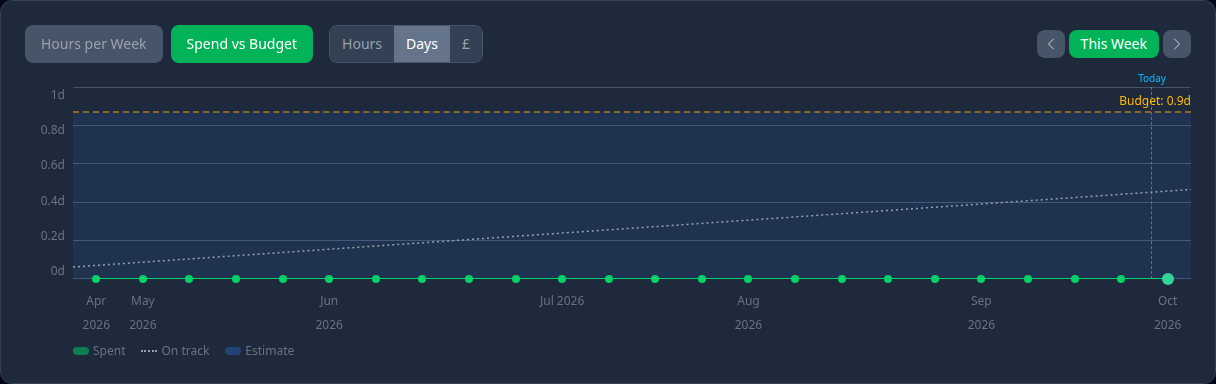
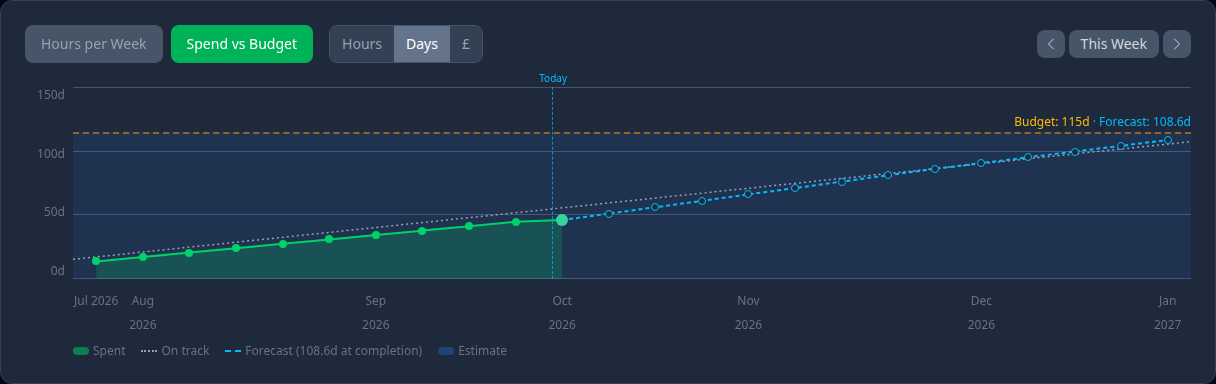
feat: split Unsubmitted out of the weekly bars, keep forecast and budget labels apart, and refresh PR screenshots

diff --git a/src/components/projects/ProjectCharts.tsx b/src/components/projects/ProjectCharts.tsx
@@ -331,6 +331,7 @@ interface WeeklyDataPoint {
   hours: number;
   approvedHours: number;
   pendingHours: number;
+  unsubmittedHours?: number; // The Open (not yet submitted) part of pendingHours
   plannedHours: number; // Budgeted hours from Job Planning Lines
   cumulative: number;
 }
@@ -340,6 +341,7 @@ interface WeekDisplayData {
   hours: number;
   approvedHours: number; // Hours from Approved timesheets
   pendingHours: number; // Hours from Open/Submitted timesheets
+  unsubmittedHours: number; // The Open (not yet submitted) part of pendingHours
   plannedHours: number; // Budgeted hours from Job Planning Lines
   date: Date;
   isCurrentWeek: boolean;
@@ -448,13 +450,20 @@ function generateWeeklyDisplayData(
   // Create a map of existing data
   const dataMap = new Map<
     string,
-    { hours: number; approvedHours: number; pendingHours: number; plannedHours: number }
+    {
+      hours: number;
+      approvedHours: number;
+      pendingHours: number;
+      unsubmittedHours: number;
+      plannedHours: number;
+    }
   >();
   for (const d of data) {
     dataMap.set(d.week, {
       hours: d.hours,
       approvedHours: d.approvedHours || 0,
       pendingHours: d.pendingHours || 0,
+      unsubmittedHours: d.unsubmittedHours || 0,
       plannedHours: d.plannedHours || 0,
     });
   }
@@ -475,6 +484,7 @@ function generateWeeklyDisplayData(
       hours: 0,
       approvedHours: 0,
       pendingHours: 0,
+      unsubmittedHours: 0,
       plannedHours: 0,
     };
 
@@ -491,6 +501,7 @@ function generateWeeklyDisplayData(
       hours: weekData.hours,
       approvedHours: weekData.approvedHours,
       pendingHours: weekData.pendingHours,
+      unsubmittedHours: weekData.unsubmittedHours,
       plannedHours: weekData.plannedHours,
       date: weekDate,
       isCurrentWeek: weekStr === currentWeekStr,
@@ -526,9 +537,10 @@ function WeeklyBarChart({ data, offsetWeeks, unit, hoursPerDay }: WeeklyBarChart
         (acc, d) => ({
           planned: acc.planned + d.plannedHours,
           approved: acc.approved + d.approvedHours,
-          pending: acc.pending + d.pendingHours,
+          submitted: acc.submitted + d.pendingHours - d.unsubmittedHours,
+          unsubmitted: acc.unsubmitted + d.unsubmittedHours,
         }),
-        { planned: 0, approved: 0, pending: 0 }
+        { planned: 0, approved: 0, submitted: 0, unsubmitted: 0 }
       ),
     [displayData]
   );
@@ -579,10 +591,13 @@ function WeeklyBarChart({ data, offsetWeeks, unit, hoursPerDay }: WeeklyBarChart
           {/* Bars */}
           <div className="relative flex h-full items-end">
             {displayData.map((point) => {
-              // Stacked bar heights: approved at bottom, pending on top
+              // Stacked bar heights: approved at the bottom, then submitted, unsubmitted on top
+              const submittedHours = point.pendingHours - point.unsubmittedHours;
               const approvedHeightPercent =
                 maxHours > 0 ? (point.approvedHours / maxHours) * 100 : 0;
-              const pendingHeightPercent = maxHours > 0 ? (point.pendingHours / maxHours) * 100 : 0;
+              const submittedHeightPercent = maxHours > 0 ? (submittedHours / maxHours) * 100 : 0;
+              const unsubmittedHeightPercent =
+                maxHours > 0 ? (point.unsubmittedHours / maxHours) * 100 : 0;
               const plannedHeightPercent = maxHours > 0 ? (point.plannedHours / maxHours) * 100 : 0;
               const isHovered = hoveredWeek === point.week;
 
@@ -624,8 +639,8 @@ function WeeklyBarChart({ data, offsetWeeks, unit, hoursPerDay }: WeeklyBarChart
                           }}
                         />
                       )}
-                      {/* Pending hours (top of stack - amber/orange) */}
-                      {pendingHeightPercent > 0 && (
+                      {/* Submitted hours (middle of stack - amber), awaiting approval */}
+                      {submittedHeightPercent > 0 && (
                         <div
                           className={cn(
                             'w-full transition-all',
@@ -635,7 +650,25 @@ function WeeklyBarChart({ data, offsetWeeks, unit, hoursPerDay }: WeeklyBarChart
                             approvedHeightPercent === 0 && 'rounded-t'
                           )}
                           style={{
-                            height: `${pendingHeightPercent}%`,
+                            height: `${submittedHeightPercent}%`,
+                            minHeight: '2px',
+                          }}
+                        />
+                      )}
+                      {/* Unsubmitted hours (top of stack - faded amber), still on Open timesheets */}
+                      {unsubmittedHeightPercent > 0 && (
+                        <div
+                          className={cn(
+                            'w-full transition-all',
+                            point.isCurrentWeek
+                              ? 'bg-amber-400/50'
+                              : 'bg-amber-500/40 group-hover:bg-amber-400/50',
+                            approvedHeightPercent === 0 &&
+                              submittedHeightPercent === 0 &&
+                              'rounded-t'
+                          )}
+                          style={{
+                            height: `${unsubmittedHeightPercent}%`,
                             minHeight: '2px',
                           }}
                         />
@@ -665,10 +698,16 @@ function WeeklyBarChart({ data, offsetWeeks, unit, hoursPerDay }: WeeklyBarChart
                           Approved: {formatEffort(point.approvedHours)}
                         </div>
                       )}
-                      {point.pendingHours > 0 && (
+                      {point.pendingHours - point.unsubmittedHours > 0 && (
                         <div className="flex items-center gap-2 text-gray-400">
                           <span className="inline-block h-2 w-2 rounded-sm bg-amber-500" />
-                          Pending: {formatEffort(point.pendingHours)}
+                          Submitted: {formatEffort(point.pendingHours - point.unsubmittedHours)}
+                        </div>
+                      )}
+                      {point.unsubmittedHours > 0 && (
+                        <div className="flex items-center gap-2 text-gray-400">
+                          <span className="inline-block h-2 w-2 rounded-sm bg-amber-500/40" />
+                          Unsubmitted: {formatEffort(point.unsubmittedHours)}
                         </div>
                       )}
                       {point.hours === 0 && point.plannedHours === 0 && (
@@ -705,7 +744,11 @@ function WeeklyBarChart({ data, offsetWeeks, unit, hoursPerDay }: WeeklyBarChart
         </div>
         <div className="flex items-center gap-1.5">
           <span className="inline-block h-2.5 w-2.5 rounded-sm bg-amber-500" />
-          <span>Pending ({formatEffort(legendTotals.pending)})</span>
+          <span>Submitted ({formatEffort(legendTotals.submitted)})</span>
+        </div>
+        <div className="flex items-center gap-1.5">
+          <span className="inline-block h-2.5 w-2.5 rounded-sm bg-amber-500/40" />
+          <span>Unsubmitted ({formatEffort(legendTotals.unsubmitted)})</span>
         </div>
       </div>
     </div>
@@ -976,9 +1019,11 @@ function ProgressLineChart({
           value: forecastAtCompletion,
         }
       : null;
-  // Move the budget label below its line when the forecast label would sit on top of it
-  const forecastLabelNearBudget =
+  // When the forecast ends close to the budget line, both labels share one row on the side
+  // of the line away from the forecast's end point, so neither sits on a line or the other
+  const forecastNearBudget =
     !!forecastEnd && showBudget && Math.abs(forecastEnd.y - totalBudgetY) < 8;
+  const sharedLabelBelowLine = forecastNearBudget && forecastEnd!.y < totalBudgetY;
 
   return (
     <div>
@@ -1015,10 +1060,16 @@ function ProgressLineChart({
                 <span
                   className={cn(
                     'absolute right-0 text-xs text-amber-400',
-                    forecastLabelNearBudget ? 'top-1' : '-top-5'
+                    sharedLabelBelowLine ? 'top-1' : '-top-5'
                   )}
                 >
                   Budget: {formatValue(budgetValue)}
+                  {forecastNearBudget && forecastEnd && (
+                    <span className="text-sky-400">
+                      {' '}
+                      · Forecast: {formatValue(forecastEnd.value)}
+                    </span>
+                  )}
                 </span>
               </div>
             </>
@@ -1113,7 +1164,7 @@ function ProgressLineChart({
           </svg>
 
           {/* Forecast label at the end of the forecast line, like the budget line's */}
-          {forecastEnd && (
+          {forecastEnd && !forecastNearBudget && (
             <span
               className={cn(
                 'absolute -translate-y-full pb-1 text-xs whitespace-nowrap text-sky-400',

diff --git a/src/services/bc/projectDetailsService.ts b/src/services/bc/projectDetailsService.ts
@@ -95,6 +95,7 @@ interface WeeklyDataPoint {
   hours: number; // Total hours
   approvedHours: number; // Hours from Approved timesheets
   pendingHours: number; // Hours from Open + Submitted timesheets
+  unsubmittedHours: number; // The Open (not yet submitted) part of pendingHours
   plannedHours: number; // Budgeted hours from Job Planning Lines (by planningDate)
   cumulative: number;
 }
@@ -384,15 +385,24 @@ export const projectDetailsService = {
       .reduce((sum, e) => sum + e.hours, 0);
 
     // Weekly data aggregation - track approved vs pending hours
-    const weeklyMap = new Map<string, { total: number; approved: number; pending: number }>();
+    const weeklyMap = new Map<
+      string,
+      { total: number; approved: number; pending: number; unsubmitted: number }
+    >();
     for (const entry of timeEntries) {
-      const current = weeklyMap.get(entry.weekStart) || { total: 0, approved: 0, pending: 0 };
+      const current = weeklyMap.get(entry.weekStart) || {
+        total: 0,
+        approved: 0,
+        pending: 0,
+        unsubmitted: 0,
+      };
       current.total += entry.hours;
       // Approved status = approved hours, everything else (Open, Submitted) = pending
       if (entry.status === 'Approved') {
         current.approved += entry.hours;
       } else if (entry.status === 'Open' || entry.status === 'Submitted') {
         current.pending += entry.hours;
+        if (entry.status === 'Open') current.unsubmitted += entry.hours;
       }
       // Note: Rejected hours are excluded from pending/approved but included in total
       weeklyMap.set(entry.weekStart, current);
@@ -402,13 +412,14 @@ export const projectDetailsService = {
     const sortedWeeks = Array.from(weeklyMap.keys()).sort();
     let cumulative = 0;
     let weeklyData: WeeklyDataPoint[] = sortedWeeks.map((week) => {
-      const data = weeklyMap.get(week) || { total: 0, approved: 0, pending: 0 };
+      const data = weeklyMap.get(week) || { total: 0, approved: 0, pending: 0, unsubmitted: 0 };
       cumulative += data.total;
       return {
         week,
         hours: data.total,
         approvedHours: data.approved,
         pendingHours: data.pending,
+        unsubmittedHours: data.unsubmitted,
         plannedHours: 0, // Will be populated from planning lines
         cumulative,
       };
@@ -581,6 +592,7 @@ export const projectDetailsService = {
             hours: 0,
             approvedHours: 0,
             pendingHours: 0,
+            unsubmittedHours: 0,
             plannedHours,
             cumulative: 0, // Will be recalculated below
           });

diff --git a/src/components/projects/ProjectKPICards.tsx b/src/components/projects/ProjectKPICards.tsx
@@ -287,7 +287,7 @@ export function ProjectKPICards() {
         { label: 'Posted', hours: postedHours, color: 'bg-thyme-700' },
         { label: 'Approved', hours: approvedUnpostedHours, color: 'bg-thyme-500' },
         { label: 'Submitted', hours: submittedHours, color: 'bg-amber-500' },
-        { label: 'Unsubmitted', hours: unsubmittedHours, color: 'bg-gray-500' },
+        { label: 'Unsubmitted', hours: unsubmittedHours, color: 'bg-amber-500/40' },
       ],
     },
     {
